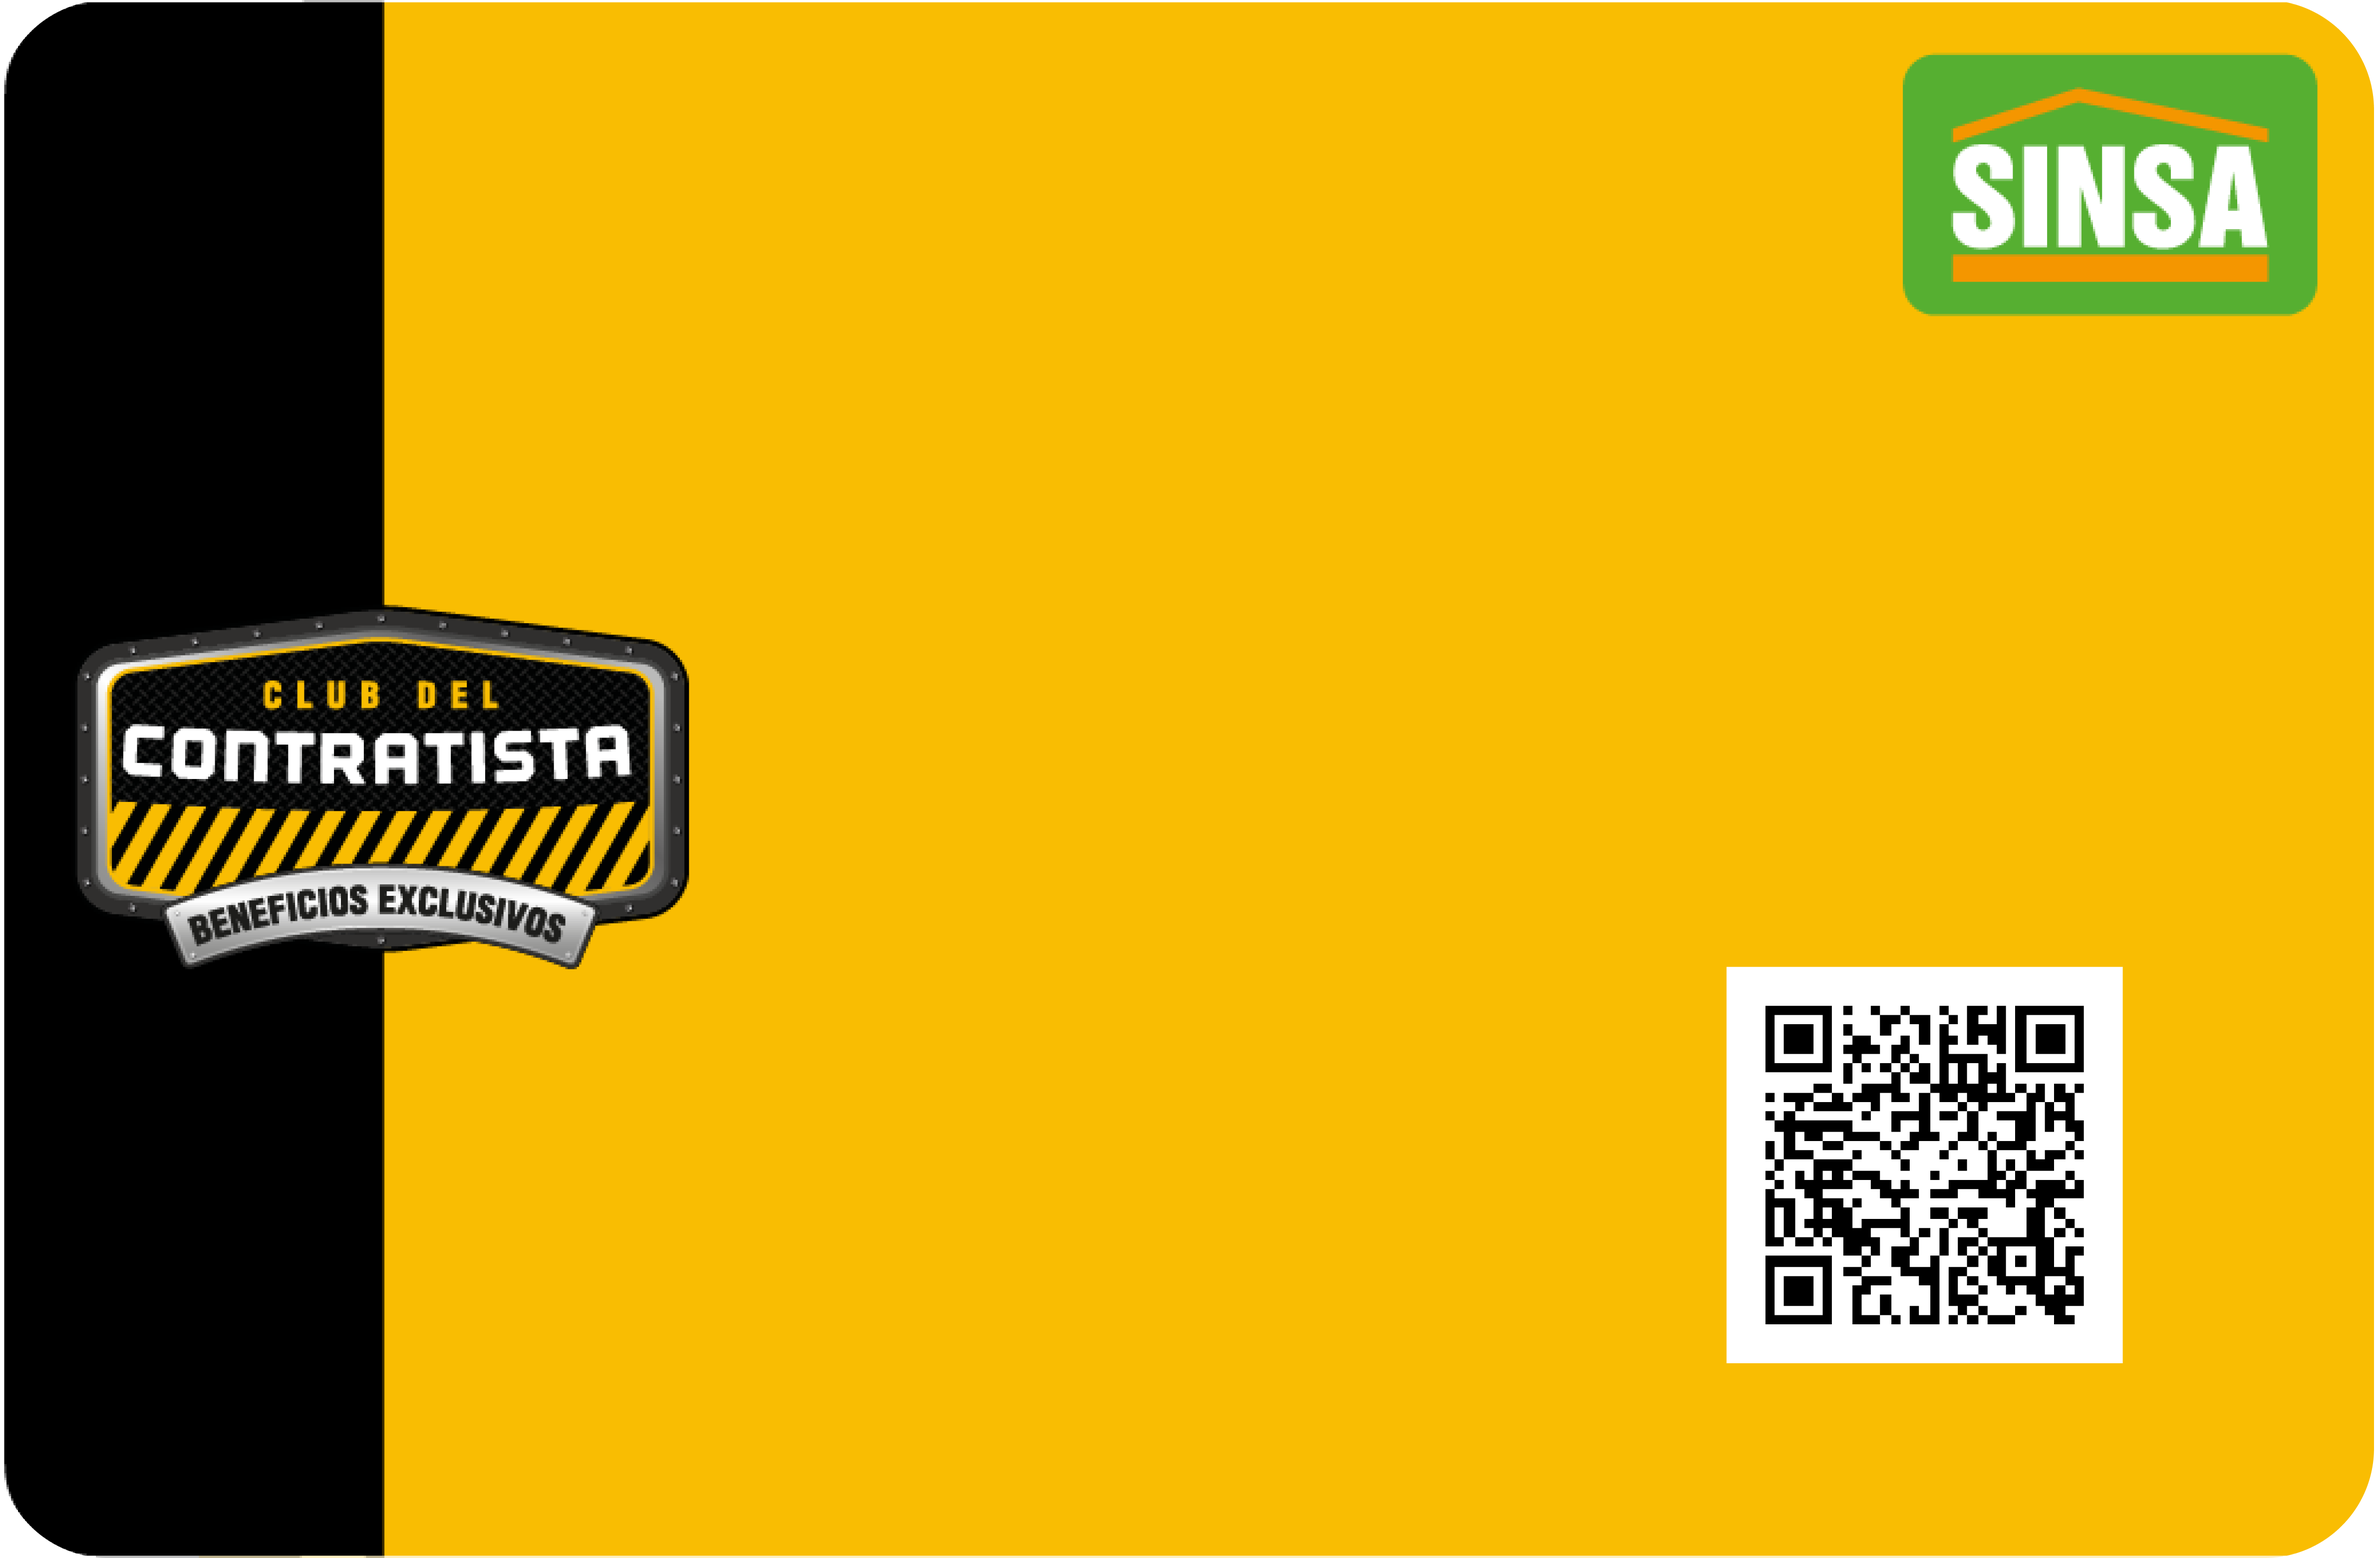
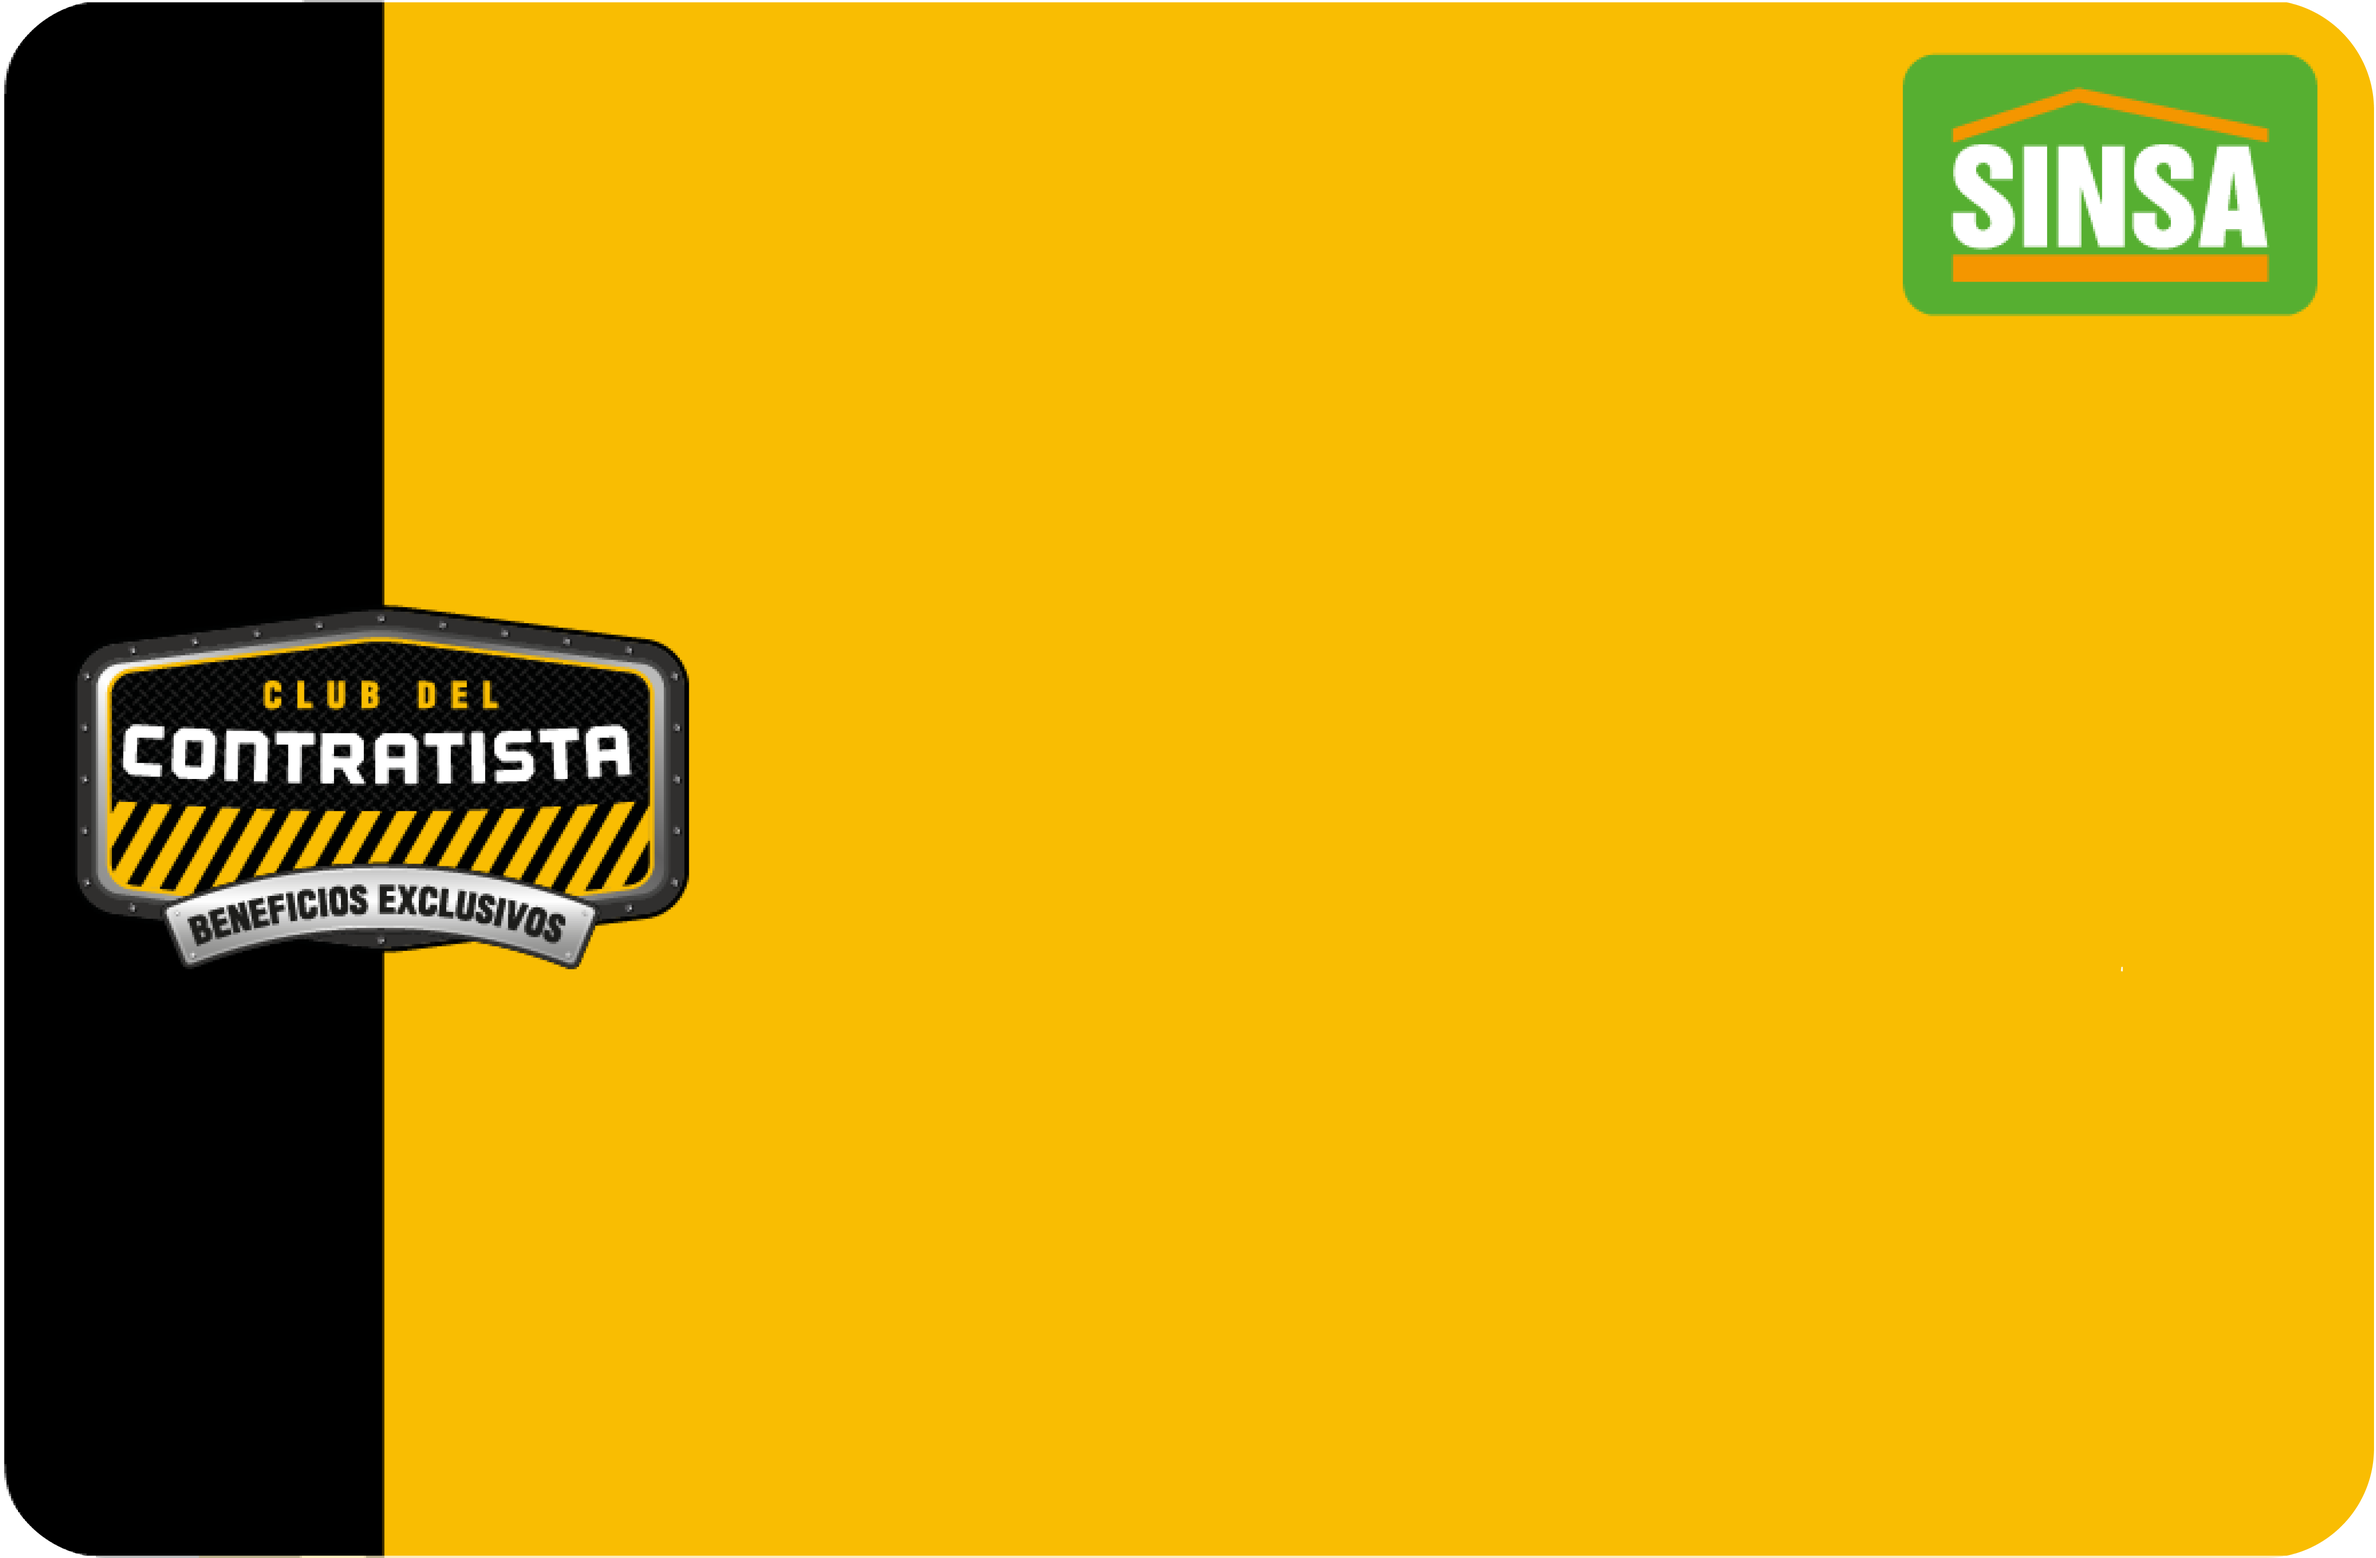
cambio membresia

Changed region(s): [[0.7151, 0.6218, 0.9017, 0.9016]]

diff --git a/src/app/components/UserProfileForm/UserProfileForm.tsx b/src/app/components/UserProfileForm/UserProfileForm.tsx
@@ -118,6 +118,7 @@ const UserProfileForm = () => {
         <div className={styles.infoContainer}>
           <div className={styles.welcomeSection}>
             <div className={styles.welcomeText}>
+              
               <div className={styles.espacio}>
                 <Image src="/cuenta/user.png" width={40} height={40} alt="user" />
                 <h2 className={styles.texto}>Bienvenido: </h2>
@@ -137,9 +138,19 @@ const UserProfileForm = () => {
           </div>
           <br />
           <div className={styles.membershipCard}>
-            <Image src="/cuenta/Membresia.png" width={300} height={170} alt="Tarjeta Contratista" />
-            <span className={styles.cardName}>{userData?.nombres_contratista}</span>
-          </div>
+  <Image
+    src={
+      userData?.nombre_club === "Platinum"
+        ? "/cuenta/Membresia2.png"
+        : "/cuenta/Membresia.png"
+    }
+    width={300}
+    height={170}
+    alt="Tarjeta Contratista"
+  />
+  <span className={styles.cardName}>{userData?.nombres_contratista}</span>
+</div>
+
         </div>
       </div>
 
